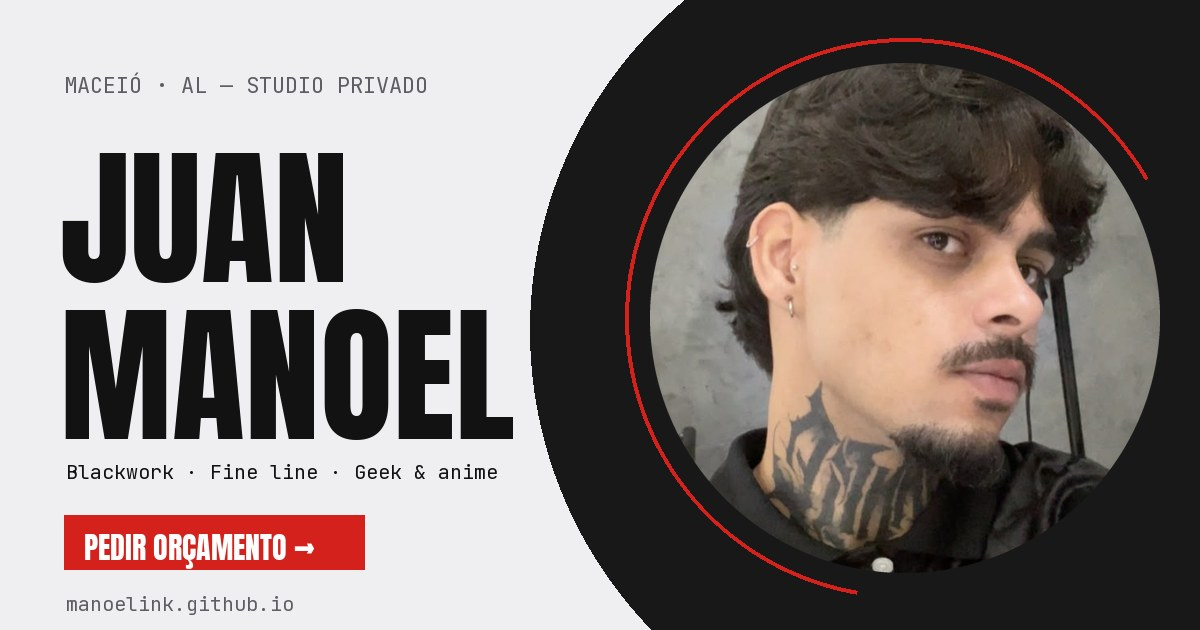
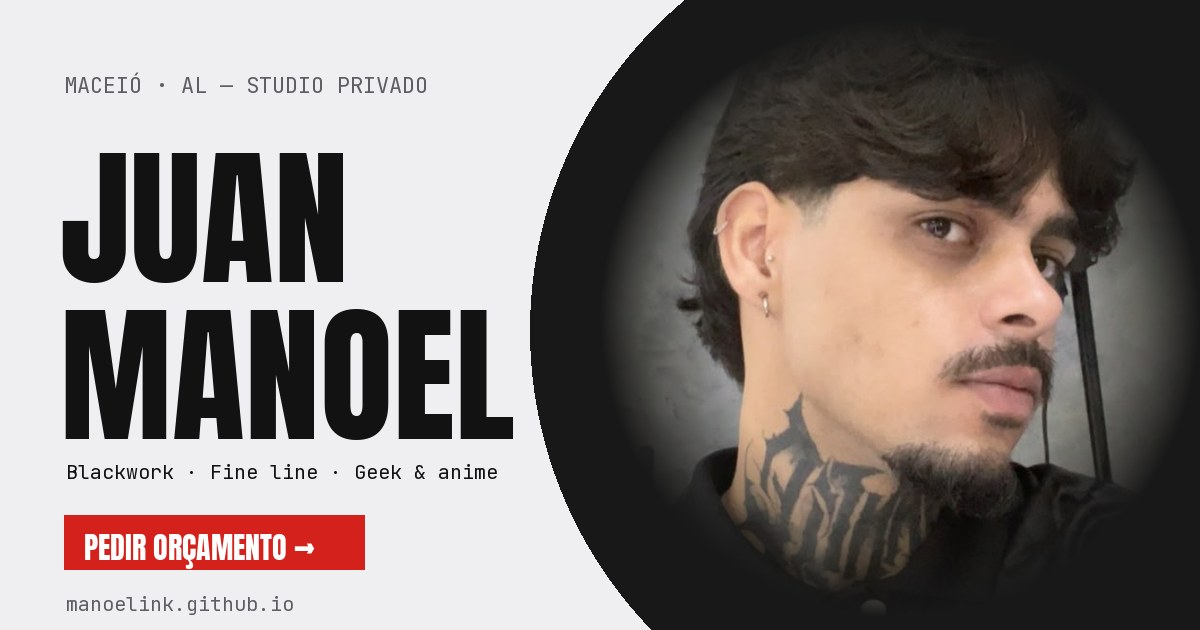
Hero: foto maior com bordas se dissolvendo no preto; bola abraçando a foto no celular

Changed region(s): [[0.4933, 0.0603, 0.9867, 0.9349], [0.8325, 0.0905, 0.8633, 0.1206]]

diff --git a/manoel-ink/style.css b/manoel-ink/style.css
@@ -723,16 +723,23 @@ img.hero-photo { box-shadow: 0 0 0 6px #121212, 0 0 0 7px rgba(255,255,255,.08),
 .hero-visual .arc { color: var(--red); z-index: 3; }
 
 /* =========================================================
-   CELULAR: bola preta enorme saindo do canto de cima à direita
-   (centro fora da tela) e a foto como círculo menor dentro dela
+   CELULAR: bola preta à direita (cortada pela borda) e foto grande
+   dentro, com as bordas se dissolvendo no preto
    ========================================================= */
 @media (max-width: 860px) {
   .hero { position: relative; display: block; padding: 0 var(--gutter); }
   .hero-text { position: relative; z-index: 2; padding-top: 34px; }
   .hero-text .eyebrow { max-width: 40vw; }
-  .hero-title { font-size: min(13vw, 100px); margin-bottom: 20px; }
+  .hero-title { font-size: min(12vw, 96px); margin-bottom: 20px; }
   .hero-visual { position: absolute; z-index: 1; top: 0; left: 40vw; right: 0; width: auto; height: 90vw; margin: 0; }
-  /* círculo de raio 82vw com centro em (125vw, 5vw) a partir do topo do hero */
-  .hero-visual .orb { left: 3vw; top: -77vw; width: 164vw; max-width: none; }
+  /* bola: raio 44vw, centro em (96vw, 34vw) a partir do topo do hero, abraçando a foto */
+  .hero-visual .orb { left: 12vw; top: -10vw; width: 88vw; max-width: none; }
   .hero-visual .badge-spin { display: none; }
+}
+
+/* foto do hero: bordas desfocadas, dissolvendo no preto da bola */
+img.hero-photo {
+  box-shadow: none;
+  -webkit-mask: radial-gradient(circle closest-side, #000 62%, rgba(0,0,0,.6) 80%, transparent 100%);
+          mask: radial-gradient(circle closest-side, #000 62%, rgba(0,0,0,.6) 80%, transparent 100%);
 }

diff --git a/manoel-ink/script.js b/manoel-ink/script.js
@@ -490,11 +490,11 @@ document.querySelectorAll("[data-count]").forEach((el) => countIO.observe(el));
     const vw = x1 - x0, vh = y1 - y0;
     const mobile = innerWidth <= 860, V = innerWidth;
     // celular: posição fixa da foto (proporcional à tela), dentro da bola gigante do canto
-    const P = mobile ? V * 0.34 : Math.min(vw, vh) * 0.82;            // diâmetro da foto
-    const cx = mobile ? V * 0.80 - hv.offsetLeft : x0 + vw / 2 + vw * 0.02;
-    const cy = mobile ? V * 0.42 : y0 + vh / 2;
+    const P = mobile ? V * 0.5 : Math.min(vw, vh) * 0.95;             // diâmetro da foto (a borda some no preto)
+    const cx = mobile ? V * 0.78 - hv.offsetLeft : x0 + vw / 2 + vw * 0.02;
+    const cy = mobile ? V * 0.37 : y0 + vh / 2;
     Object.assign(img.style, { left: (cx - P / 2) + "px", top: (cy - P / 2) + "px", width: P + "px", height: P + "px", margin: "0", right: "auto", bottom: "auto" });
-    const A = P * 1.1;
+    const A = P * (mobile ? 0.98 : 0.96);   // arco vermelho logo na borda onde a foto se dissolve
     Object.assign(arc.style, { left: (cx - A / 2) + "px", top: (cy - A / 2) + "px", width: A + "px", height: A + "px" });
     // celular: o texto de baixo só começa depois que a bola preta termina
     const title = document.querySelector(".hero-title"), sub = document.querySelector(".hero-sub");

diff --git a/manoel-ink/index.html b/manoel-ink/index.html
@@ -27,7 +27,7 @@
   <link rel="preconnect" href="https://fonts.gstatic.com" crossorigin>
   <link href="https://fonts.googleapis.com/css2?family=Anton&family=JetBrains+Mono:wght@400;500&display=swap" rel="stylesheet">
   <link href="https://api.fontshare.com/v2/css?f[]=satoshi@400,500,700&display=swap" rel="stylesheet">
-  <link rel="stylesheet" href="style.css?v=20261009j">
+  <link rel="stylesheet" href="style.css?v=20261009l">
 </head>
 <body>
   <div class="grain" aria-hidden="true"></div>
@@ -278,6 +278,6 @@
     <button class="lb-nav lb-next" id="lbNext" aria-label="Próxima foto">→</button>
   </div>
 
-  <script src="script.js?v=20261009j"></script>
+  <script src="script.js?v=20261009l"></script>
 </body>
 </html>
